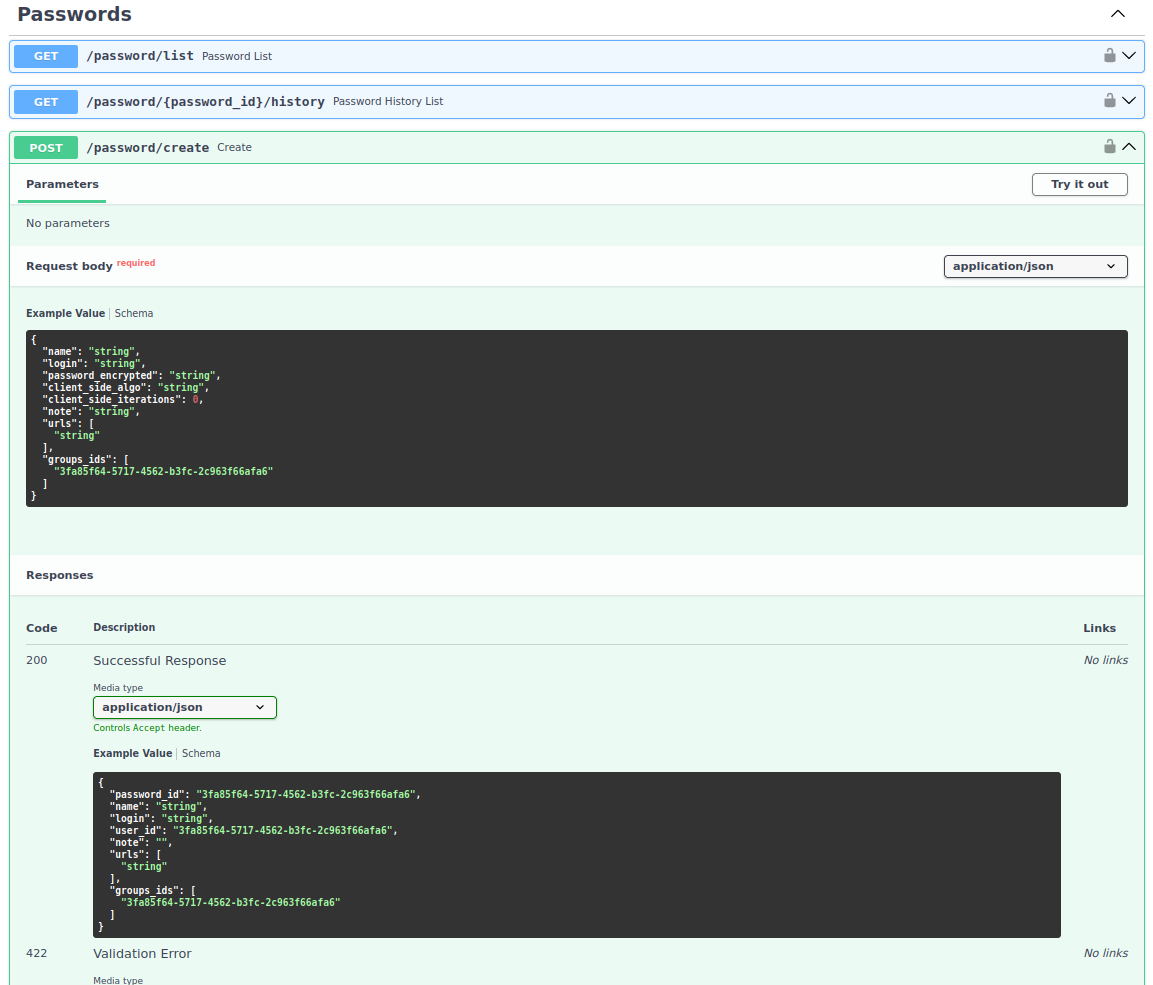
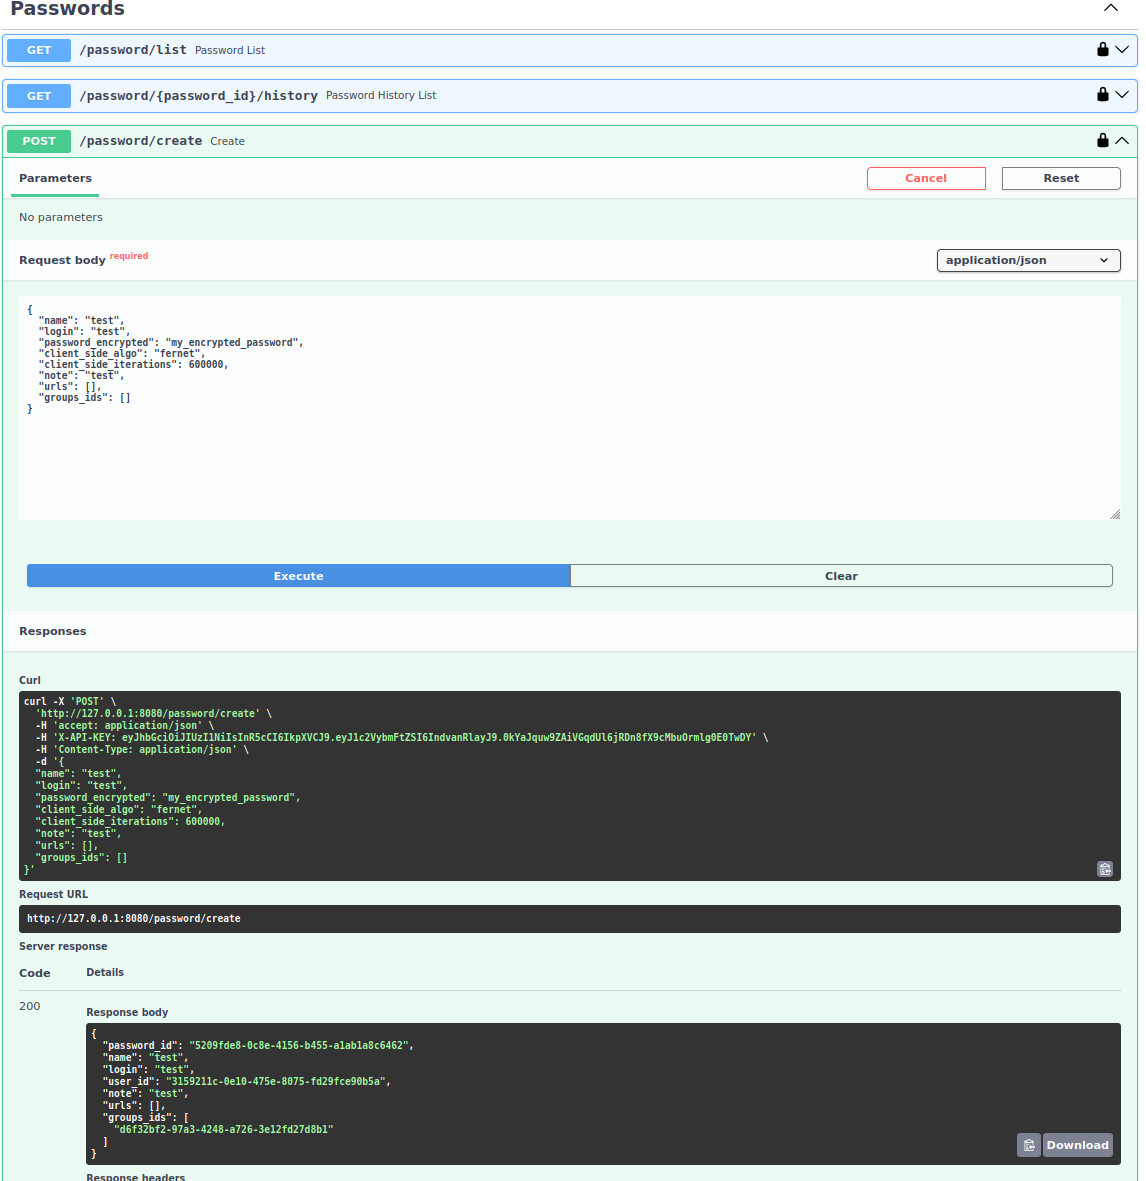
update README.md, docker-compose, add screens

diff --git a/README.md b/README.md
@@ -21,6 +21,7 @@ Kubernetes local deploy with Minikube: https://github.com/wojtek9502/password-ma
 
 ![img.png](screenshots/screen1.png)
 ![img.png](screenshots/screen2.png)
+![img.png](screenshots/screen3.png)
 </details>
 
 ### Requirements
@@ -49,14 +50,16 @@ services:
   password-manager-api:
     image: 'wojtek9502/password-manager-api'
     container_name: 'password-manager'
-    command: bash -c 'alembic upgrade head && python run_server.py --port 5000'
+    command: bash -c 'alembic upgrade head && python run_server.py --port 8080'
     env_file: .env
     volumes:
-      - '/home/volumes/password-manager/logs:/app/logs'
+      - '/tmp/volumes/password-manager/logs:/app/logs'
     network_mode: host
     depends_on:
       - db
 ```
+3. Run ```make up```
+4) Go to http://127.0.0.1:8080/swagger-ui
 
 ### Install and run from source
 1) Install venv and activate:
